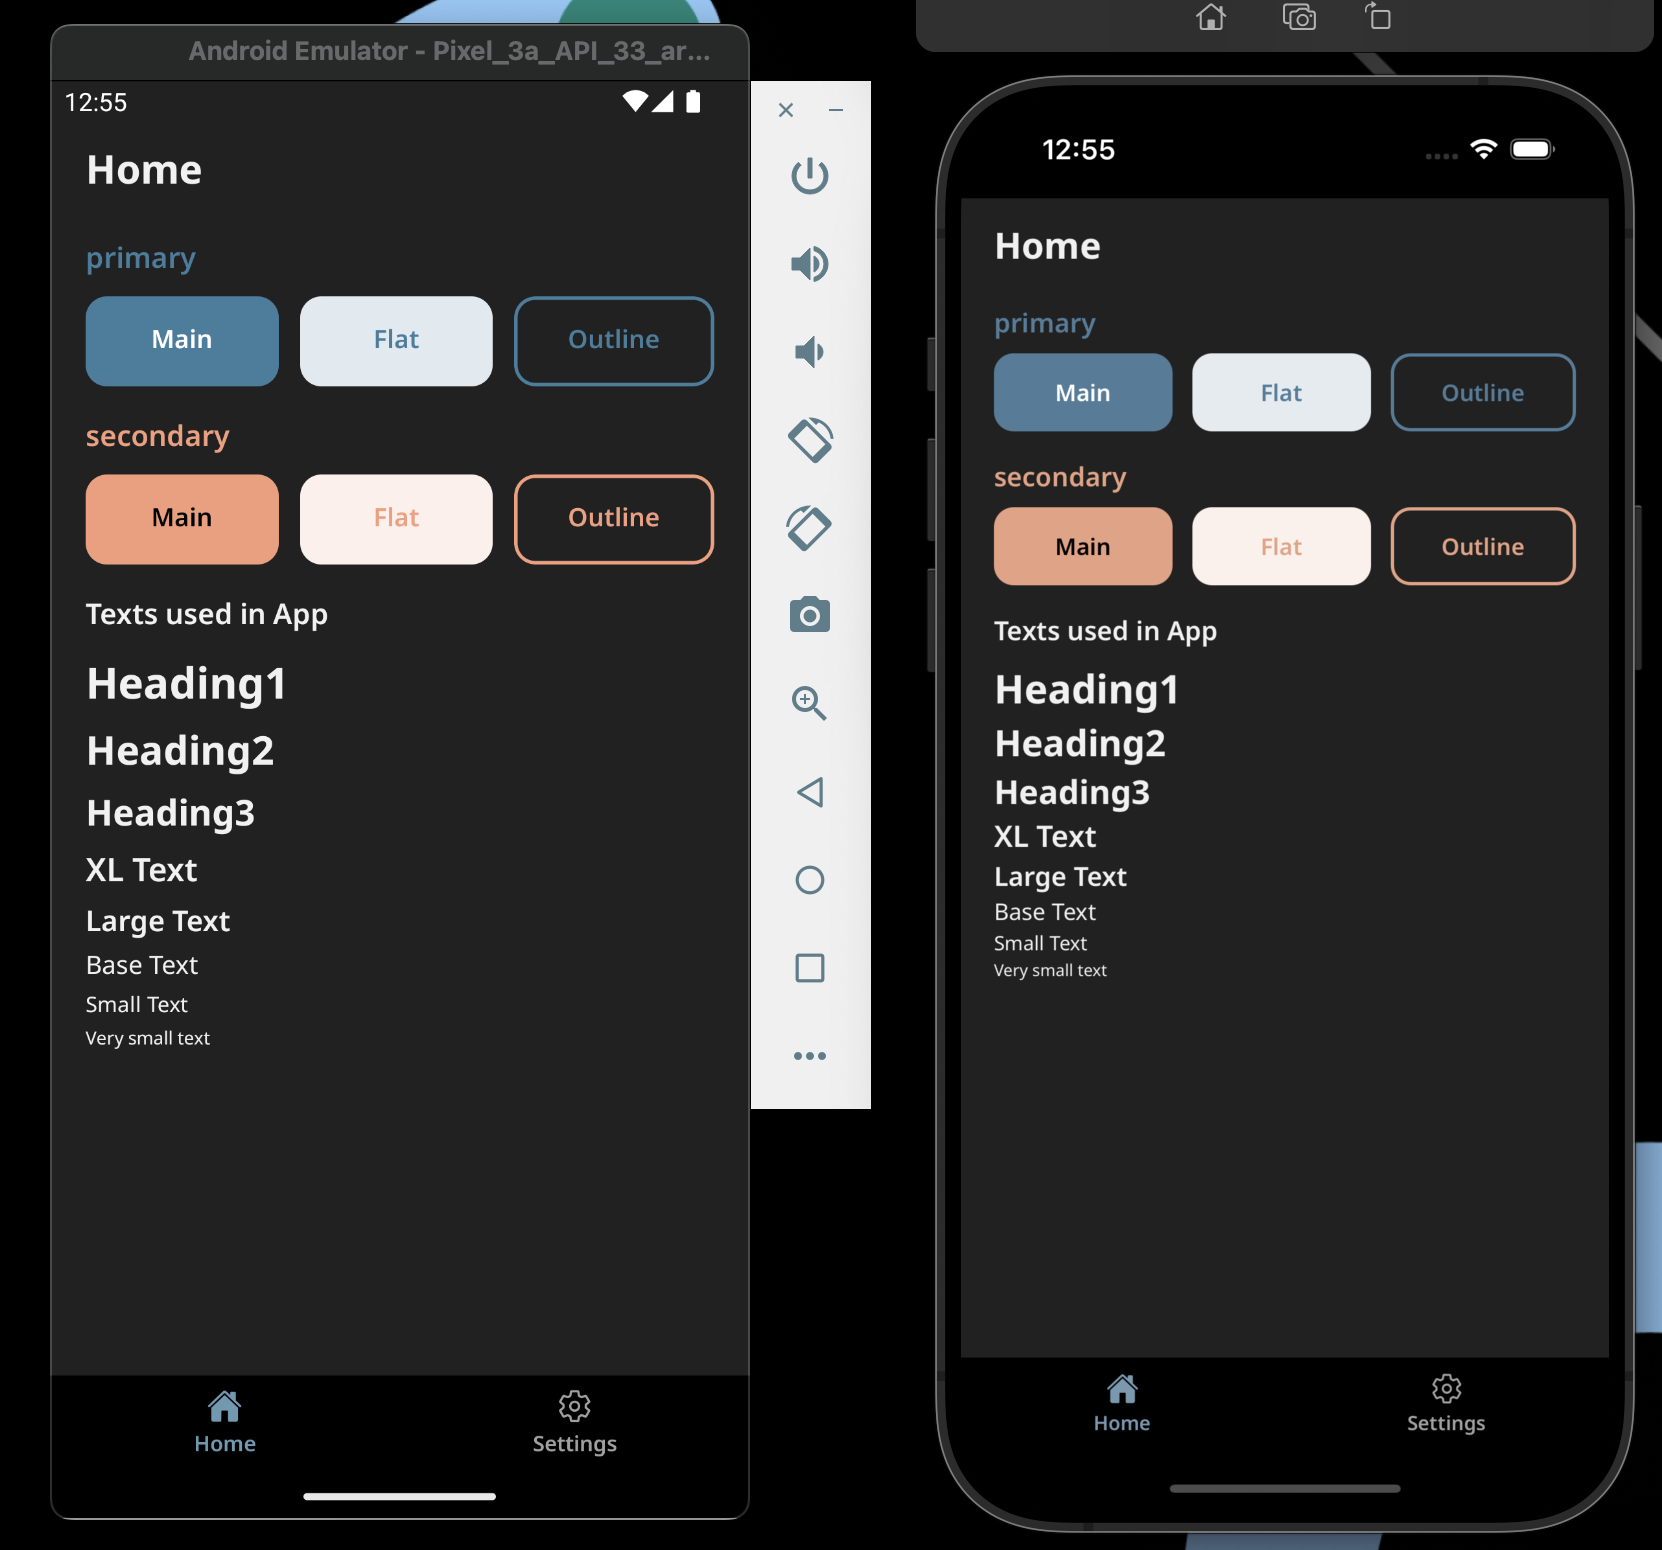
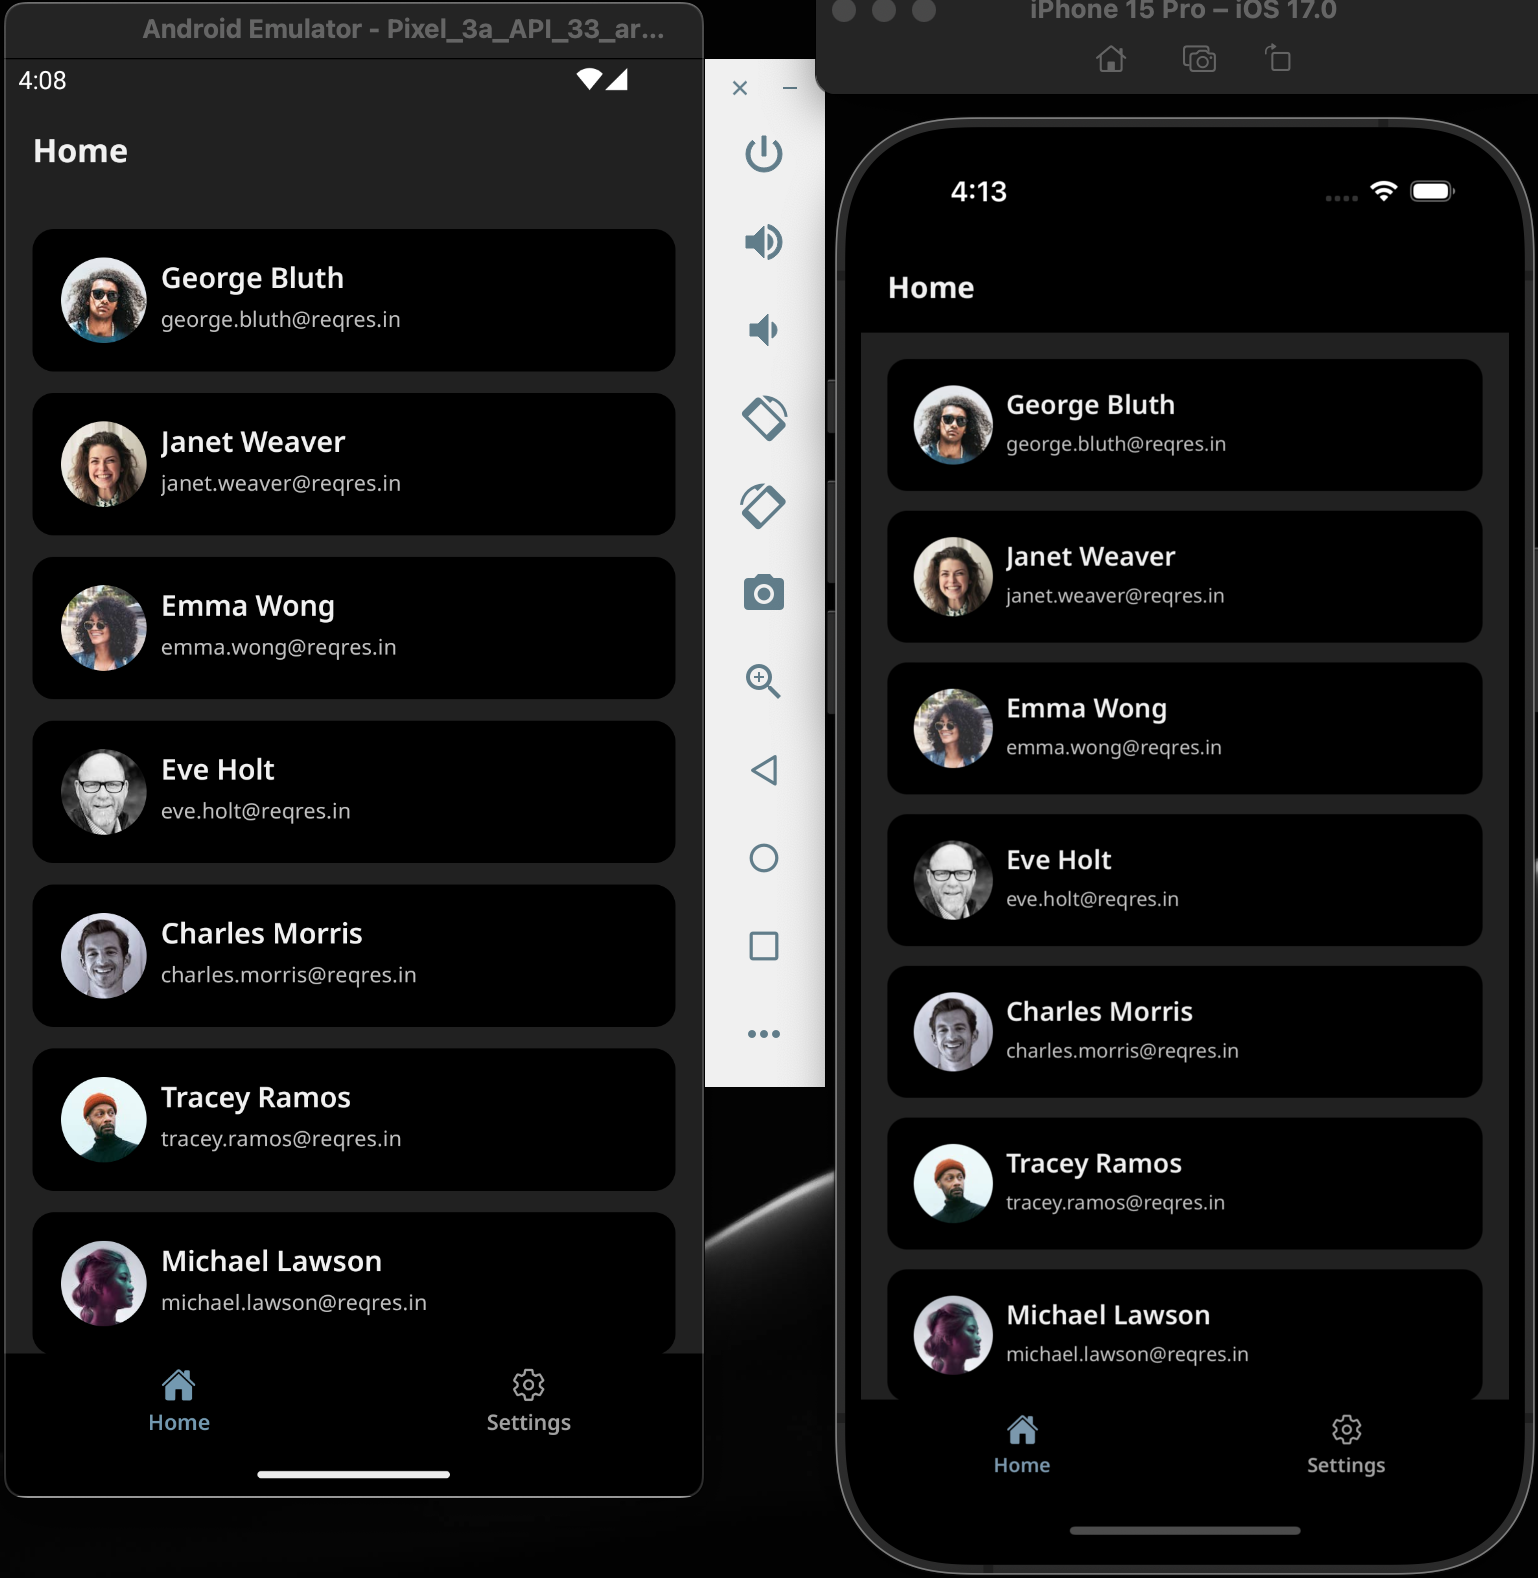
Updated screenshots and readme file

diff --git a/README.md b/README.md
@@ -36,6 +36,16 @@ A minimal React Native boilerplate app with basic theming, navigation, and envir
 - ✅ **Basic Screens (Dashboard)**
   - 🏠 **Home Screen** → Home Tab
   - ⚙ **Settings Screen** → Theme switch button (Light/Dark)
+  -
+- ✅ **Home Screen**
+
+  - Added FlatList (UserList) and fetched data from Backend API
+  - Used RTK query for network calls (It supports caching out of the box)
+  - Three layers - Data, Domain, Presentation
+  - Upcoming - Error handling support
+
+- ✅ Used **react-native-fast-image**
+  - Made use of centralised Image component which uses fast image (good for caching and handling images). As it is centralised, can be easily updated to another component without making changes in the entire app.
 
 ## ⚠ IMPORTANT
 
